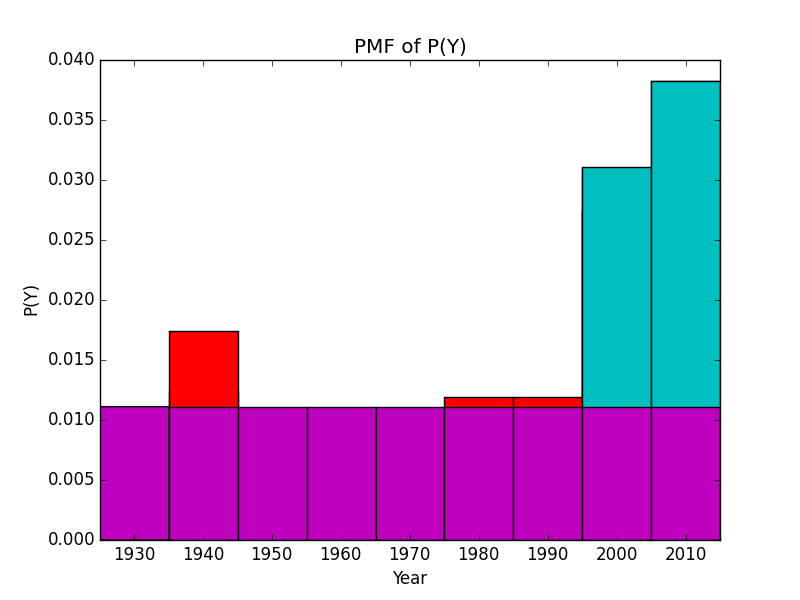
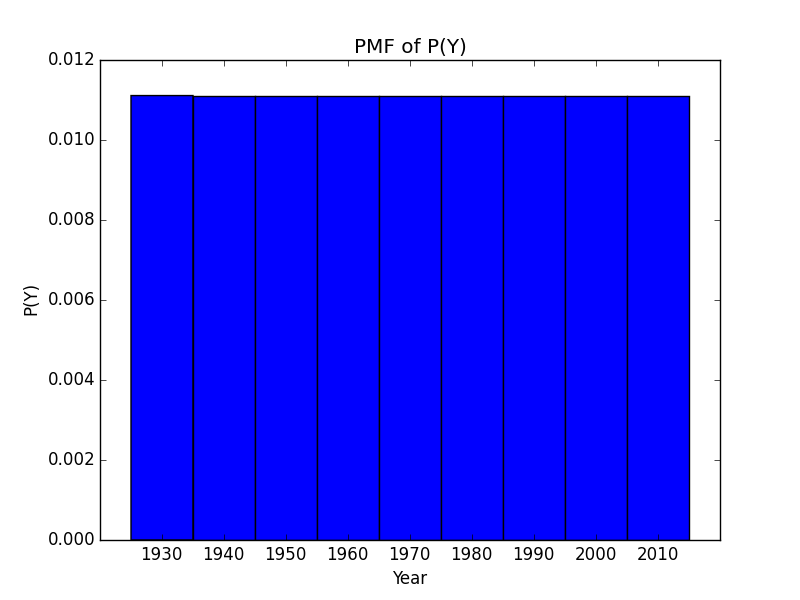
Completed P3 and update to P2

diff --git a/P2.py b/P2.py
@@ -1,12 +1,13 @@
 from parse_movies_example import load_all_movies 
 import matplotlib.pyplot as plt
 from mpl_toolkits.mplot3d import Axes3D
+from nltk.corpus import stopwords
 import numpy as np
 import operator
 import math
 import random
 import re
-
+ 
 # Returns statistics about years
 def year_stats(years):
 	min_y = min(years)
@@ -15,14 +16,15 @@ def year_stats(years):
 	return min_y, max_y, bin_n
 
 # Returns list of words from string
-def norm_words(words):
+def norm_words(words, exclude_stopwords=False):
 	pattern = re.compile(r'\W+')
 	word_list = []
 	for w in pattern.split(words):
 		w = norm_word(w)
+		if exclude_stopwords:
+			w = '' if w in stopwords.words() else w
 		if not w == '':
 			word_list.append(w)
-	#word_list = [norm_word(w) for w in pattern.split(words)]
 	return word_list
 
 # Returns lower case word without special characters
@@ -40,13 +42,36 @@ def hist_plot(years, title, fname):
 	plt.xticks(np.arange(min_year, max_year + 10, 10))
 	plt.savefig(fname)
 	#plt.show()
+	plt.close('all')
+
+def hist_bar_plot(probs, title, fname):
+	min_year, max_year, bin_num = year_stats(years)
+	ind = []
+	ht = []
+	width = 10
+	total = 0
+	for prob in probs:
+		ind.append(prob[0])
+		ht.append(prob[1])
+
+	fig = plt.figure()
+	ax = fig.add_subplot(111)
+	hist = ax.bar(ind, ht, width)
+
+	plt.title(title)
+	plt.xlabel('Year')
+	plt.ylabel('log(P(Y))')
+	plt.xticks(np.arange(min_year+5, max_year + 15, 10), np.arange(min_year, max_year + 10, 10))
+	plt.savefig(fname)
+	#plt.show()
+	plt.close('all')
 
 # Returns list of all years with given word in plot
 def y_given_x(years, plots, word):
 	y_g_x = []
 	word = norm_word(word)
 	for i, plot in enumerate(plots):
-		if word in norm_words(plot):
+		if word in norm_words(plot, exclude_stopwords=False):
 			y_g_x.append(years[i])
 	return y_g_x
 
@@ -54,7 +79,7 @@ def y_given_x(years, plots, word):
 def all_x_all_y(years, plots):
 	wc = {}
 	for i, year in enumerate(years):
-		for word in norm_words(plots[i]):
+		for word in norm_words(plots[i], exclude_stopwords=False):
 			if word in wc:
 				if year in wc[word]: 
 					wc[word][year] += 1.
@@ -76,12 +101,15 @@ def p_x_given_y(wc, word, year):
 	return p	
 
 # Returns sorted tuple of movie prediction for each year for given plot
-def movie_decade_probs(wc, years, plot):
+def movie_decade_probs(wc, years, plot, skip_words=None):
 	min_year, max_year, bin_num = year_stats(years)
 	decade_probs = {}
 	for year in range(min_year, max_year + 10, 10):
 		p = 0
-		for word in norm_words(plot):
+		for word in norm_words(plot, exclude_stopwords=True):
+			if skip_words and year in skip_words:
+				if word in skip_words[year]:
+					continue
 			p += math.log(p_x_given_y(wc, word, year),10)
 		decade_probs[year] = p
 	sorted_probs = sorted(decade_probs.items(), key=operator.itemgetter(1), reverse=True)
@@ -99,18 +127,19 @@ def get_movie(all_movies, movie_title):
 	return year, plot
 
 # Returns Predicted movie year
-def predict_decade(wc, years_train, plot = '', title = '', all_movies = None, prints = False):
+def predict_decade(wc, years_train, plot='', title='', all_movies=None, prints=False, skip_words=None):
 	decade = 0
 	if not title == '' and not all_movies == None:
 		decade, plot = get_movie(all_movies, title)
 	
-	decade_probs = movie_decade_probs(wc, years_train, plot)
+	decade_probs = movie_decade_probs(wc, years_train, plot, skip_words=skip_words)
 	predicted_decade =  decade_probs[0][0]
 
 	if prints:
 		print title
 		print "actual decade: ", decade
 		print "predicted decade: ", predicted_decade
+		hist_bar_plot(decade_probs, title, title+'.png')
 
 	return predicted_decade, decade_probs
 
@@ -130,25 +159,13 @@ if __name__ == '__main__':
 
 	min_year, max_year, bin_num = year_stats(years)
 
-	# # 2a. Plot P(Y)
-	# hist_plot(years, 'PMF of P(Y)', 'P2a.png')
-
-	# # 2b. Plot P(Y|X "radio" > 0)
-	# hist_plot(y_given_x(years, plots, 'radio'), "PMF of P(Y|X'radio'>0)", 'P2b.png')
-
-	# # 2c. Plot P(Y|X "beaver" > 0)
-	# hist_plot(y_given_x(years, plots, 'beaver'), "PMF of P(Y|X'beaver'>0)", 'P2c.png')
-
-	# # 2d. Plot P(Y|X "the" > 0)
-	# hist_plot(y_given_x(years, plots, 'the'), "PMF of P(Y|X'the'>0)", 'P2d.png')
-
 	# Get uniform subset of movies
 	years_train, plots_train, titles_train = [], [], []
 	years_test, plots_test, titles_test = [], [], []
 	year_count_train = [0]*bin_num
 	year_count_test = [0]*bin_num
 	train_sample_size = 5000
-	test_sample_size = 10
+	test_sample_size = 1000
 
 	# Create uniformly distributed training and test sets
 	for i, year in enumerate(years):
@@ -165,25 +182,6 @@ if __name__ == '__main__':
 			titles_test.append(titles[i])
 	wc = all_x_all_y(years_train, plots_train)
 
-	# # 2e. Plot P(Y)
-	# hist_plot(years_train, 'PMF of P(Y)', 'P2e.png')
-
-	# # 2f. Plot P(Y|X "radio" > 0)
-	# hist_plot(y_given_x(years_train, plots_train, 'radio'), "PMF of P(Y|X'radio'>0)", 'P2f.png')
-
-	# # 2g. Plot P(Y|X "beaver" > 0)
-	# hist_plot(y_given_x(years_train, plots_train, 'beaver'), "PMF of P(Y|X'beaver'>0)", 'P2g.png')
-
-	# # 2h. Plot P(Y|X "the" > 0)
-	# hist_plot(y_given_x(years_train, plots_train, 'the'), "PMF of P(Y|X'the'>0)", 'P2h.png')
-
-	# 2j. Predicts for certain movies
-	predict_decade(wc, years_train, title='Finding Nemo', all_movies = all_movies, prints = True)
-	predict_decade(wc, years_train, title='The Matrix', all_movies = all_movies, prints = True)
-	predict_decade(wc, years_train, title='Gone with the Wind', all_movies = all_movies, prints = True)
-	predict_decade(wc, years_train, title='Harry Potter and the Goblet of Fire', all_movies = all_movies, prints = True)
-	predict_decade(wc, years_train, title='Avatar', all_movies = all_movies, prints = True)
-
 	# Test classifier
 	correct_count = [0.]*bin_num
 	confusion_matrix = np.zeros((bin_num,bin_num))
@@ -196,7 +194,37 @@ if __name__ == '__main__':
 		for i, decade in enumerate(decade_probs):
 			correct_count[i] += 1. if decade[0] == actual_year else 0.
 
+	# 2a. Plot P(Y)
+	hist_plot(years, 'PMF of P(Y)', 'P2a.png')
 
+	# 2b. Plot P(Y|X "radio" > 0)
+	hist_plot(y_given_x(years, plots, 'radio'), "PMF of P(Y|X'radio'>0)", 'P2b.png')
+
+	# 2c. Plot P(Y|X "beaver" > 0)
+	hist_plot(y_given_x(years, plots, 'beaver'), "PMF of P(Y|X'beaver'>0)", 'P2c.png')
+
+	# 2d. Plot P(Y|X "the" > 0)
+	hist_plot(y_given_x(years, plots, 'the'), "PMF of P(Y|X'the'>0)", 'P2d.png')
+
+	# 2e. Plot P(Y)
+	hist_plot(years_train, 'PMF of P(Y)', 'P2e.png')
+
+	# 2f. Plot P(Y|X "radio" > 0)
+	hist_plot(y_given_x(years_train, plots_train, 'radio'), "PMF of P(Y|X'radio'>0)", 'P2f.png')
+
+	# 2g. Plot P(Y|X "beaver" > 0)
+	hist_plot(y_given_x(years_train, plots_train, 'beaver'), "PMF of P(Y|X'beaver'>0)", 'P2g.png')
+
+	# 2h. Plot P(Y|X "the" > 0)
+	hist_plot(y_given_x(years_train, plots_train, 'the'), "PMF of P(Y|X'the'>0)", 'P2h.png')
+
+	# 2j. Predicts for certain movies
+	predict_decade(wc, years_train, title='Finding Nemo', all_movies = all_movies, prints = True)
+	predict_decade(wc, years_train, title='The Matrix', all_movies = all_movies, prints = True)
+	predict_decade(wc, years_train, title='Gone with the Wind', all_movies = all_movies, prints = True)
+	predict_decade(wc, years_train, title='Harry Potter and the Goblet of Fire', all_movies = all_movies, prints = True)
+	predict_decade(wc, years_train, title='Avatar', all_movies = all_movies, prints = True)
+	
 	# 2k. Accuracy of the classifier
 	print "Accuracy on test: ", correct_count[0]/len(plots_test)
 
@@ -209,6 +237,8 @@ if __name__ == '__main__':
 	plt.xlabel('k (guesses)')
 	plt.ylabel('Accuracy within k guesses')
 	plt.savefig('P2l.png')
+	plt.close('all')
+
 
 	# 2m. Plot confusion matrix
 	print "Confusion Matrix:"
@@ -225,6 +255,8 @@ if __name__ == '__main__':
 	cb = fig.colorbar(heatmap, ax=ax)
 	cb.set_label('Magnitude')
 	plt.savefig('P2m.png')
+	plt.close('all')
+
 
 
 

diff --git a/P3.py b/P3.py
@@ -1,0 +1,107 @@
+import math
+import random
+import numpy
+from parse_movies_example import load_all_movies 
+from nltk.corpus import stopwords
+import P2
+
+def get_top_words(wc, top_num = 10):
+	top_words = {}
+	for word in wc:
+		if not word in stopwords.words():
+			for decade in wc[word]:
+				p = P2.p_x_given_y(wc, word, decade)
+				p_min = 1
+
+				for n_decade in wc[word]:
+					if not n_decade == decade:
+						p_min = min(P2.p_x_given_y(wc, word, n_decade), p_min)
+
+				ratio = p/p_min
+				# ratio = wc[word][decade]/min(wc[word].values())
+
+				if decade in top_words:
+					w = top_words[decade]
+					if len(w) < top_num:
+						top_words[decade][word] = ratio
+					else:
+						mw = min(w, key=w.get)
+						if ratio > w[mw]:
+							del top_words[decade][mw]
+							top_words[decade][word] = ratio
+				else:
+					top_words[decade] = {}
+					top_words[decade][word] = wc[word][decade]
+	return top_words
+
+
+# Main Function
+if __name__ == '__main__':
+
+		# Get set of all movies
+	all_movies = list(load_all_movies("plot.list.gz"))
+	random.shuffle(all_movies)
+	years, plots, titles = [], [], []
+
+	for movie in all_movies:
+		years.append(movie['year'])
+		plots.append(movie['summary'])
+		titles.append(movie['title'])
+
+	min_year, max_year, bin_num = P2.year_stats(years)
+
+	# Get uniform subset of movies
+	years_train, plots_train, titles_train = [], [], []
+	years_test, plots_test, titles_test = [], [], []
+	year_count_train = [0]*bin_num
+	year_count_test = [0]*bin_num
+	train_sample_size = 6000
+	test_sample_size = 1000
+
+	# Create uniformly distributed training and test sets
+	for i, year in enumerate(years):
+		bin = int((year - min_year)/10)
+		if year_count_train[bin] < train_sample_size: 
+			year_count_train[bin] += 1
+			years_train.append(year)
+			plots_train.append(plots[i])
+			titles_train.append(titles[i])
+		elif year_count_test[bin] < test_sample_size: 
+			year_count_test[bin] += 1
+			years_test.append(year)
+			plots_test.append(plots[i])
+			titles_test.append(titles[i])
+	wc = P2.all_x_all_y(years_train, plots_train)
+
+	# 3a. Determine Top 10 words of each decade
+	top_words = get_top_words(wc, 10)
+	for decade in top_words:
+		print decade, ':', top_words[decade].keys()
+
+	# 3b. Test classifer without top 100 words
+	top_words = get_top_words(wc, 100)
+	correct_count_wo = [0.]*bin_num
+	correct_count_w = [0.]*bin_num
+	for i, plot in enumerate(plots_test):
+		predicted_decade_wo, decade_probs_wo = P2.predict_decade(wc, years_train, plot=plot, skip_words=top_words)
+		predicted_decade_w, decade_probs_w = P2.predict_decade(wc, years_train, plot=plot)
+
+		actual_year = years_test[i]
+		for i, decade in enumerate(decade_probs_wo):
+			correct_count_wo[i] += 1. if decade[0] == actual_year else 0.
+		for i, decade in enumerate(decade_probs_w):
+			correct_count_w[i] += 1. if decade[0] == actual_year else 0.
+
+	print "Accuracy on test (with words): ", correct_count_w[0]/len(plots_test)
+	print "Accuracy on test (without words): ", correct_count_wo[0]/len(plots_test)
+
+
+
+
+
+
+
+
+
+
+
